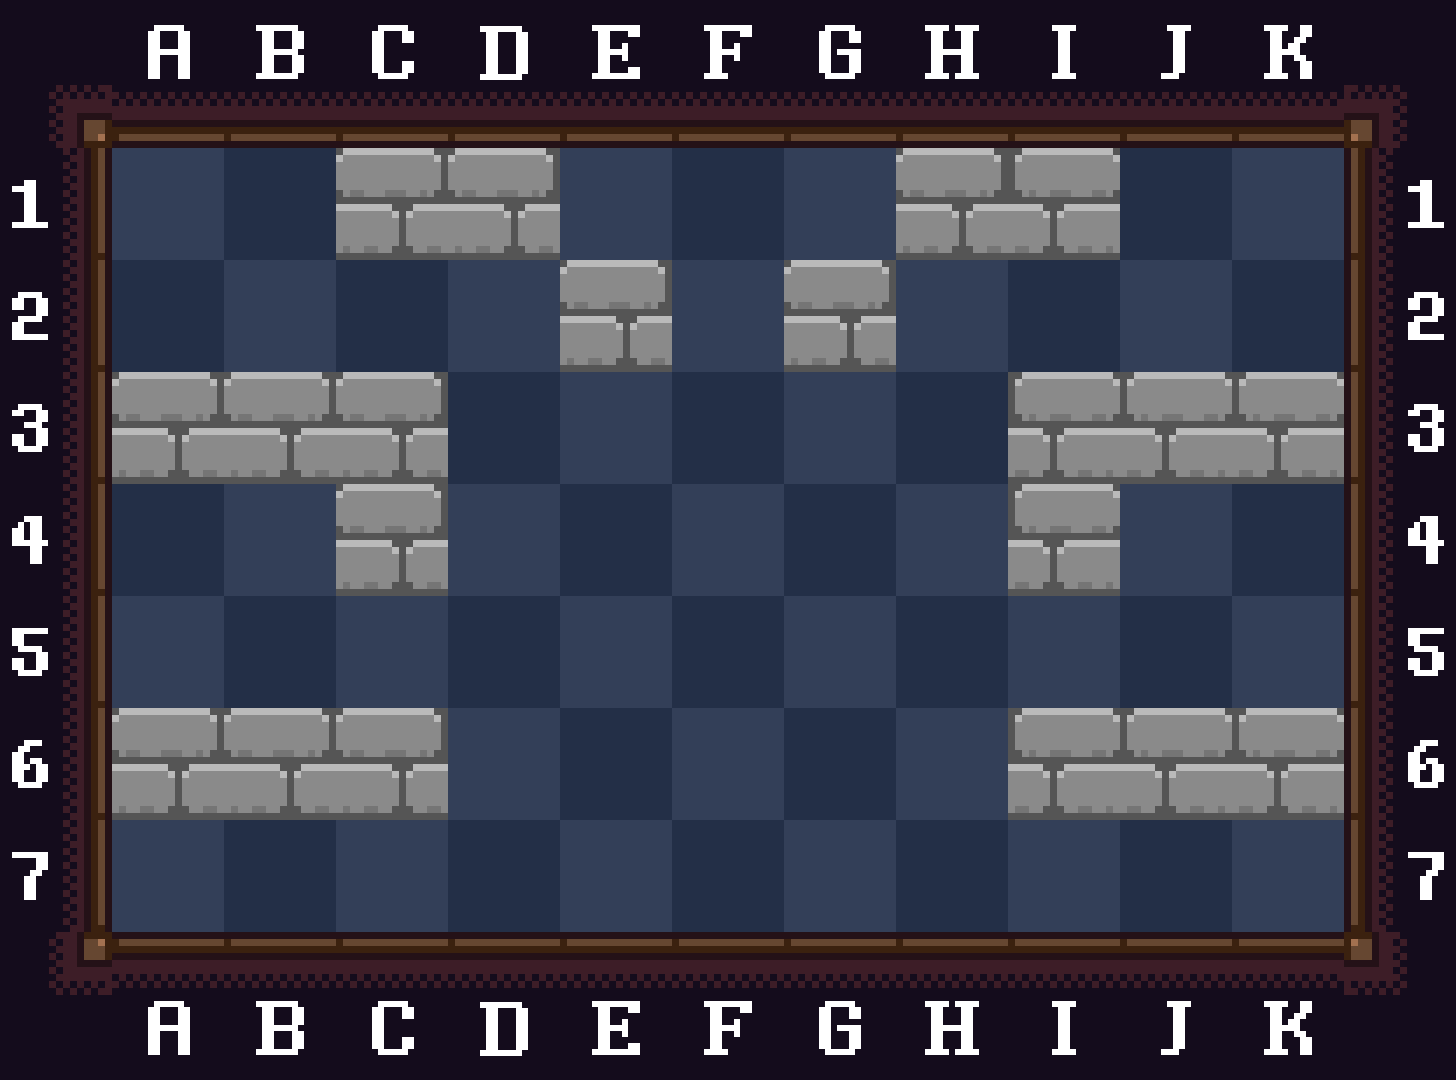
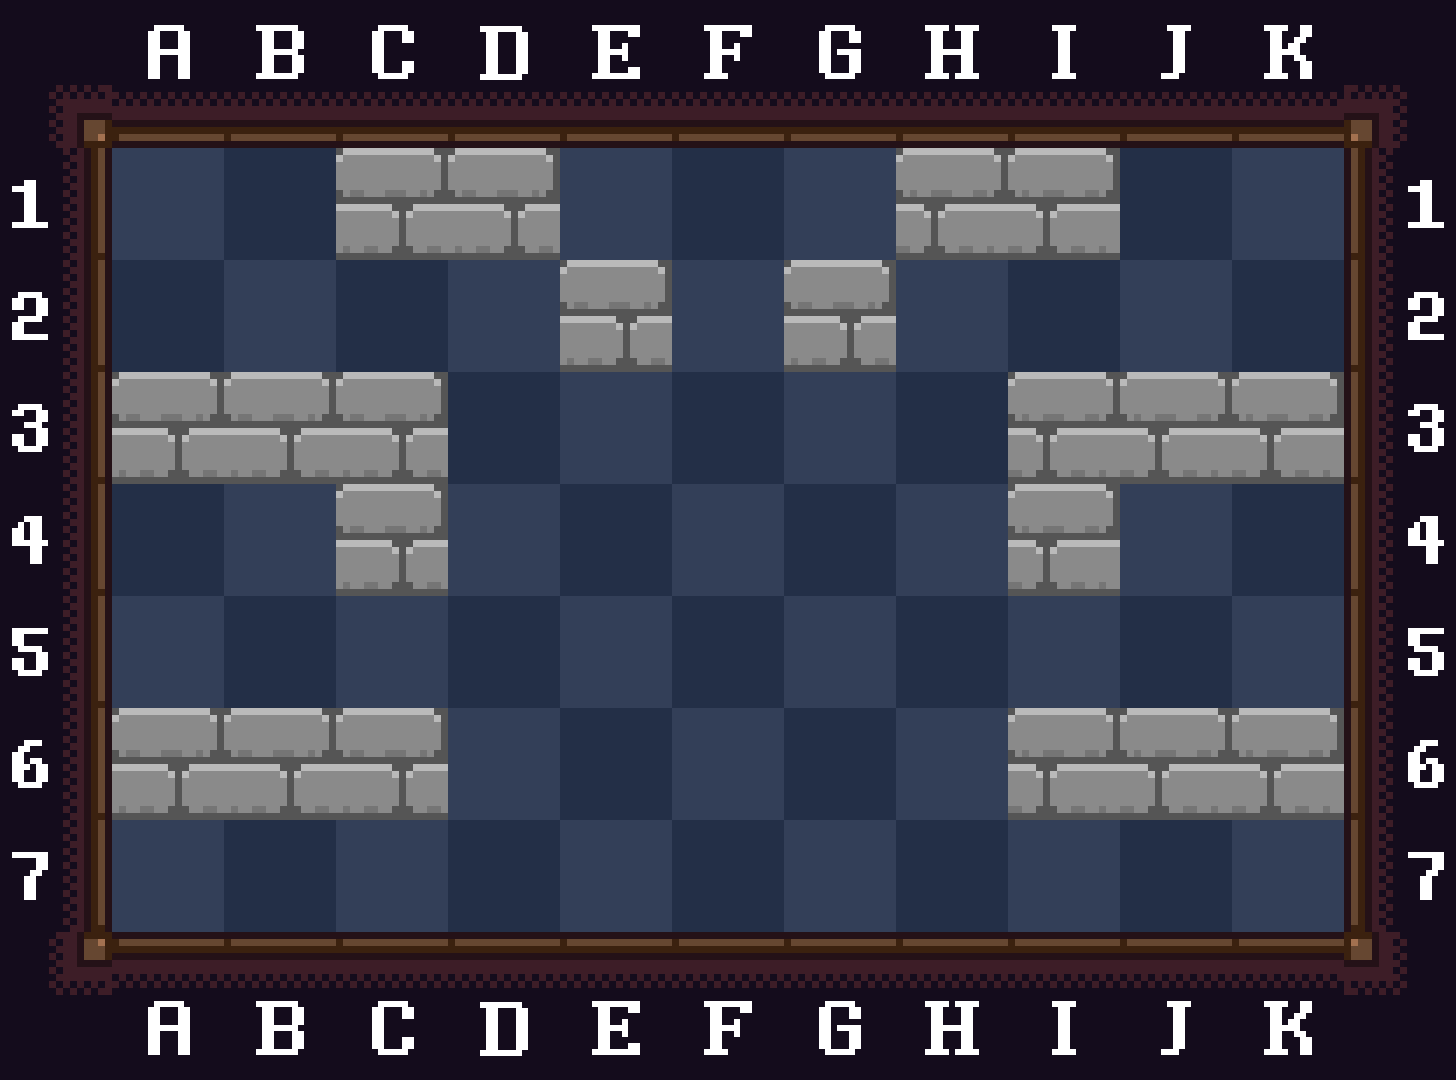
Levels complete

diff --git a/Level.java b/Level.java
@@ -28,26 +28,45 @@ public class Level {
         return ret;
     }
     public static String[] getLevel2Cords() {
-        String[] ret = new String[16]; // Yes this is inefficient, but it works.
-        ret[0] = "448 148";
-        ret[1] = "112 260";
-        ret[2] = "224 260";
-        ret[3] = "448 260";
-        ret[4] = "784 372";
-        ret[5] = "896 372";
-        ret[6] = "1008 372";
-        ret[7] = "224 484";
-        ret[8] = "448 484";
-        ret[9] = "1008 484";
-        ret[10] = "224 596";
-        ret[11] = "448 596";
-        ret[12] = "1008 596";
-        ret[13] = "1232 596";
-        ret[14] = "224 708";
-        ret[15] = "1008 708";
+        String[] ret = new String[20]; // Yes this is inefficient, but it works.
+        ret[0] = "336 148";
+        ret[1] = "448 148";
+        ret[2] = "896 148";
+        ret[3] = "1008 148";
+        ret[4] = "560 260";
+        ret[5] = "784 260";
+        ret[6] = "112 372";
+        ret[7] = "224 372";
+        ret[8] = "336 372";
+        ret[9] = "1008 372";
+        ret[10] = "1120 372";
+        ret[11] = "1232 372";
+        ret[12] = "336 484";
+        ret[13] = "1008 484";
+        ret[14] = "112 708";
+        ret[15] = "224 708";
+        ret[16] = "336 708";
+        ret[17] = "1008 708";
+        ret[18] = "1120 708";
+        ret[19] = "1232 372";
         return ret;
     }
-
+    public static String[] getLevel3Cords() {
+        String[] ret = new String[11]; // Yes this is inefficient, but it works.
+        ret[0] = "224 148";
+        ret[1] = "448 260";
+        ret[2] = "560 260";
+        ret[3] = "896 260";
+        ret[4] = "224 372";
+        ret[5] = "1120 372";
+        ret[6] = "1120 596";
+        ret[7] = "224 708";
+        ret[8] = "336 708";
+        ret[9] = "784 708";
+        ret[10] = "784 820";
+        return ret;
+    }
+    
     public static int getCurrentLevel() {return currentLevel;}
     public static void setCurrentLevel(int i){currentLevel = i;}
 

diff --git a/GameController.java b/GameController.java
@@ -33,24 +33,20 @@ public class GameController {
         String[][] stringGrid = createGrid();
         String [] playerLocations = getPLocations();
         String [] enemyLocations = getELocations();
-        String [] level1WallLocations = Level.getLevel1Cords();
+        String [] wallLocations = null;;
 
+        if(Level.getCurrentLevel()==1){wallLocations = Level.getLevel1Cords();}
+        else if(Level.getCurrentLevel()==2){wallLocations = Level.getLevel2Cords();}
+        else if(Level.getCurrentLevel()==3){wallLocations = Level.getLevel3Cords();}
+        
         for(int i = 0; i < returnArr.length; i++){
             for(int k = 0; k < returnArr[0].length; k++){
                 for(String s:playerLocations){
-                    if(s.equals(stringGrid[i][k])){
-                        returnArr[i][k] = 1;
-                    }
-                }
-                for(String s:enemyLocations){
-                    if(s.equals(stringGrid[i][k])){
-                        returnArr[i][k] = 2;
-                    }
-                }
-                for(String s:level1WallLocations){
-                    if(s.equals(stringGrid[i][k])){
-                        returnArr[i][k] = 1;
-                    }
+                    if(s.equals(stringGrid[i][k])){returnArr[i][k] = 1;}
+                } for(String s:enemyLocations){
+                    if(s.equals(stringGrid[i][k])){returnArr[i][k] = 2;}
+                } for(String s:wallLocations){
+                    if(s.equals(stringGrid[i][k])){returnArr[i][k] = 1;}
                 }
             }
         }

diff --git a/console.java b/console.java
@@ -90,10 +90,28 @@ public class console extends JPanel implements ActionListener{
                 break;
             case "continue":
                 if(!GameController.canContinue()){insert("There are still enemies alive");} 
-                else if (Level.getCurrentLevel() == 3) { } // TODO: Implement 
                 else {
-                    Level.setCurrentLevel(Level.getCurrentLevel()+1);
-                    GameRunner.level2();
+                    if(Level.getCurrentLevel() == 1) {
+                        insert("Continued to level 2");
+                        Level.setCurrentLevel(Level.getCurrentLevel()+1);
+                        GameRunner.level2();
+                        GameRunner.removeGrid();
+                        GameRunner.drawGrid();
+                        break;
+                    }
+                    if(Level.getCurrentLevel() == 2) {
+                        insert("Continued to level 3");
+                        Level.setCurrentLevel(Level.getCurrentLevel()+1);
+                        GameRunner.level3();
+                        GameRunner.removeGrid();
+                        GameRunner.drawGrid();
+                        break;
+                    }
+                    if(Level.getCurrentLevel() == 3) {
+                        insert("Good job, you won!");
+                        GameRunner.win();
+                        break;
+                    }
                 }
                 System.out.println(Level.getCurrentLevel());
                 break;

diff --git a/GameRunner.java b/GameRunner.java
@@ -105,7 +105,7 @@ public class GameRunner {
         e2.setLocation(grid[3][5]);
         e3.setLocation(grid[4][3]);
 
-        e4 = new Enemy(100, "ROBOT2", 3, 20);
+        e4 = new Enemy(0, "ROBOT2", 3, 20);
         e4.setSize(new Dimension(112, 112));
         e4.setLocation(grid[6][6]);
         e4.setOpaque(false);
@@ -113,7 +113,7 @@ public class GameRunner {
     }
 
     public static void level3() {
-        m.setMap("images/Level2.png");
+        m.setMap("images/Level3.png");
 
         p1.setLocation(grid[5][6]);
         p2.setLocation(grid[10][7]);
@@ -123,14 +123,23 @@ public class GameRunner {
         e1.setLocation(grid[1][1]);
         e2.setLocation(grid[3][5]);
         e3.setLocation(grid[4][3]);
-
-        e4 = new Enemy(100, "ROBOT2", 3, 20);
-        e4.setSize(new Dimension(112, 112));
         e4.setLocation(grid[6][6]);
-        e4.setOpaque(false);
-        mainPanel.add(e4,5);
+
+        e5 = new Enemy(0, "BOOMER", 3, 20);
+        e5.setSize(new Dimension(112, 112));
+        e5.setLocation(grid[6][7]);
+        e5.setOpaque(false);
+        mainPanel.add(e5,5);
     }
 
+    public static void win() {
+        m.setMap("images/Win.png");
+        mainPanel.moveToFront(m);
+    }
+    public static void lose() {
+        m.setMap("images/lose.png");
+        mainPanel.moveToFront(m);
+    }
 
     public static void setLocation(int c, int x, int y) {
         if (x < 112 || y < 112 || x >= 1344 || y >= 896) {
